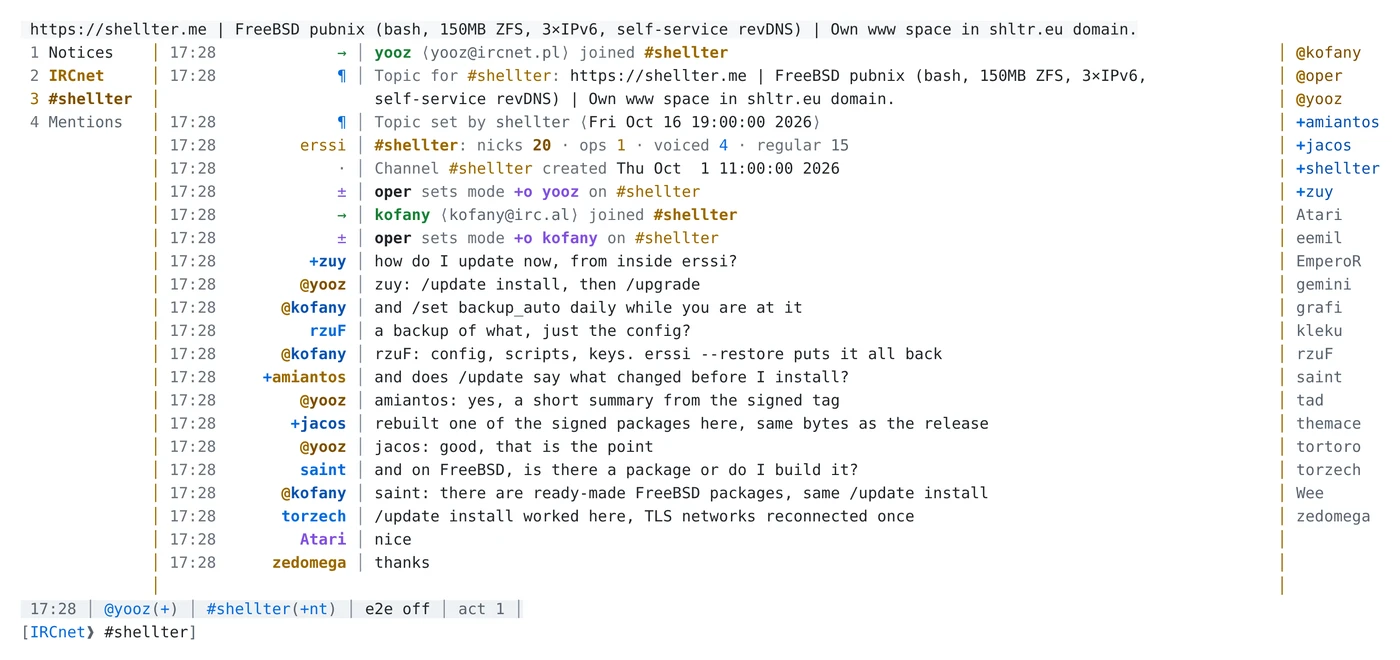
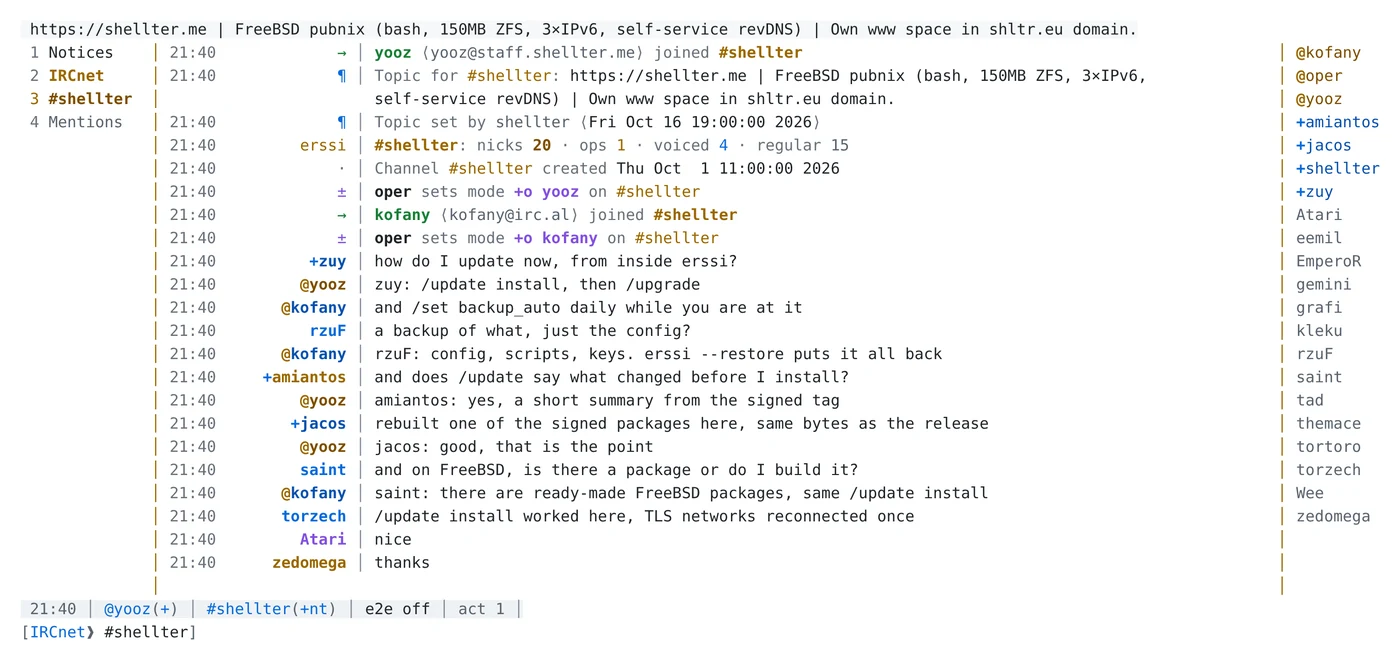
Screenshots: yooz@staff.shellter.me
The main screenshot (dark, light, phone) rendered again with the
current host of yooz; alt texts follow.

diff --git a/pl/index.html b/pl/index.html
@@ -89,7 +89,7 @@
         <source media="(prefers-color-scheme: light)" type="image/webp" srcset="../images/shellter-light-1400.webp 1400w, ../images/shellter-light-2716.webp 2716w" sizes="(min-width: 1320px) 1280px, 100vw">
         <source type="image/webp" srcset="../images/shellter-dark-1400.webp 1400w, ../images/shellter-dark-2716.webp 2716w" sizes="(min-width: 1320px) 1280px, 100vw">
         <img src="../images/shellter-dark-1400.png" width="1400" height="660"
-             alt="erssi na #shellter w IRCnecie. Po lewej lista okien: Notices, IRCnet, #shellter, Mentions. Pośrodku yooz (yooz@ircnet.pl) i kofany (kofany@irc.al) wchodzą na kanał i dostają opa od oper, potem ludzie na kanale rozmawiają po angielsku o nowościach: zuy pyta, jak zaktualizować z wnętrza erssi, yooz odpowiada: /update install, potem /upgrade, kofany dorzuca /set backup_auto daily i to, że erssi --restore przywraca konfigurację, skrypty i klucze, yooz mówi, że /update pokazuje krótkie podsumowanie z podpisanego taga, jacos zbudował jedną z podpisanych paczek i dostał te same bajty, kofany odpowiada saintowi, że są gotowe paczki dla FreeBSD, torzech pisze, że /update install zadziałało, a sieci TLS połączyły się raz na nowo. Po prawej lista nicków według rangi: opy kofany, oper, yooz; voice amiantos, jacos, shellter, zuy; potem reszta.">
+             alt="erssi na #shellter w IRCnecie. Po lewej lista okien: Notices, IRCnet, #shellter, Mentions. Pośrodku yooz (yooz@staff.shellter.me) i kofany (kofany@irc.al) wchodzą na kanał i dostają opa od oper, potem ludzie na kanale rozmawiają po angielsku o nowościach: zuy pyta, jak zaktualizować z wnętrza erssi, yooz odpowiada: /update install, potem /upgrade, kofany dorzuca /set backup_auto daily i to, że erssi --restore przywraca konfigurację, skrypty i klucze, yooz mówi, że /update pokazuje krótkie podsumowanie z podpisanego taga, jacos zbudował jedną z podpisanych paczek i dostał te same bajty, kofany odpowiada saintowi, że są gotowe paczki dla FreeBSD, torzech pisze, że /update install zadziałało, a sieci TLS połączyły się raz na nowo. Po prawej lista nicków według rangi: opy kofany, oper, yooz; voice amiantos, jacos, shellter, zuy; potem reszta.">
       </picture>
     </div>
     <figcaption>erssi na #shellter, z prawdziwymi nickami z kanału. Ich wypowiedzi napisano na potrzeby tego obrazka.</figcaption>

diff --git a/index.html b/index.html
@@ -89,7 +89,7 @@
         <source media="(prefers-color-scheme: light)" type="image/webp" srcset="images/shellter-light-1400.webp 1400w, images/shellter-light-2716.webp 2716w" sizes="(min-width: 1320px) 1280px, 100vw">
         <source type="image/webp" srcset="images/shellter-dark-1400.webp 1400w, images/shellter-dark-2716.webp 2716w" sizes="(min-width: 1320px) 1280px, 100vw">
         <img src="images/shellter-dark-1400.png" width="1400" height="660"
-             alt="erssi in #shellter on IRCnet. On the left the window list: Notices, IRCnet, #shellter, Mentions. In the middle yooz (yooz@ircnet.pl) and kofany (kofany@irc.al) join and get op from oper, then people on the channel talk about what is new: zuy asks how to update from inside erssi, yooz says /update install, then /upgrade, kofany adds /set backup_auto daily, and that erssi --restore puts config, scripts and keys back, yooz says /update shows a short summary from the signed tag, jacos rebuilt one of the signed packages and got the same bytes, kofany tells saint there are ready-made FreeBSD packages, torzech says /update install worked and the TLS networks reconnected once. On the right the nick list by rank: ops kofany, oper, yooz; voiced amiantos, jacos, shellter, zuy; then the rest.">
+             alt="erssi in #shellter on IRCnet. On the left the window list: Notices, IRCnet, #shellter, Mentions. In the middle yooz (yooz@staff.shellter.me) and kofany (kofany@irc.al) join and get op from oper, then people on the channel talk about what is new: zuy asks how to update from inside erssi, yooz says /update install, then /upgrade, kofany adds /set backup_auto daily, and that erssi --restore puts config, scripts and keys back, yooz says /update shows a short summary from the signed tag, jacos rebuilt one of the signed packages and got the same bytes, kofany tells saint there are ready-made FreeBSD packages, torzech says /update install worked and the TLS networks reconnected once. On the right the nick list by rank: ops kofany, oper, yooz; voiced amiantos, jacos, shellter, zuy; then the rest.">
       </picture>
     </div>
     <figcaption>erssi in #shellter, with the real nicks of the channel. The lines they say were written for this picture.</figcaption>
